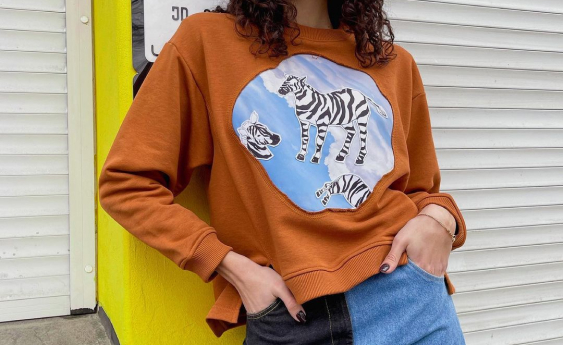
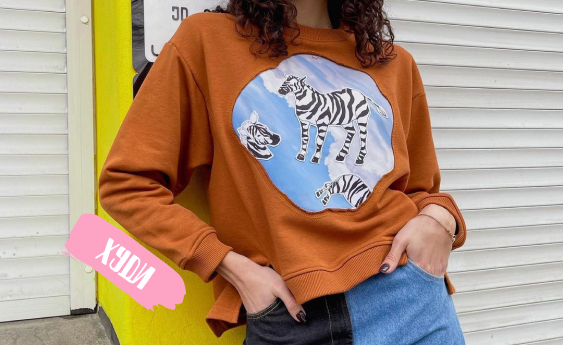
add hero

Changed region(s): [[0.0906, 0.6087, 0.3321, 0.8986]]

diff --git a/src/scss/components/_hero.scss b/src/scss/components/_hero.scss
@@ -1,135 +1,36 @@
-@use "../variables"as *;
-@use "../media"as *;
+@use "../variables" as *;
+@use "../media" as *;
 
 .hero {
-  padding-top        : 200px;
-  color              : $light;
-  background-color   : black;
-  padding            : 218px 0 245px;
-  background-color   : $purple;
-  background-image   : url("/img/bg-dog.png"), url("/img/pattern.svg");
-  background-size    : contain, auto;
-  background-position: right bottom, center;
-  background-repeat  : no-repeat, repeat;
-
-  @include bigscreen {
-    background-image   : url("/img/bg-dog-bigscreen.png"), url("/img/pattern.svg");
-    background-position: left 48vw bottom 0, center;
-    background-size    : 1850px, auto;
+  &__cols {
+    display: grid;
+    grid-template-columns: 1fr 1fr;
+    gap: 15px;
+  }
+  &__col-top-one {
+    margin-bottom: 15px;
+  }
+  &__col-top {
+    display: grid;
+    grid-template-columns: 1fr 1fr;
+    gap: 15px;
+  }
+  &__col-bottom {
+    display: grid;
+    grid-template-columns: 1fr 1fr;
+    gap: 15px;
+  }
+  &__col-bottom-one {
+    padding-top: 15px;
   }
 
-  @include laptop {
-    padding         : 148px 0 172px;
-    background-image: url("/img/bg-dog-laptop.png"), url("/img/pattern.svg");
-  }
-
-  @include tablet {
-    padding         : 148px 0 461px;
-    background-size : 655px 564px, cover;
-    background-image: url("/img/bg-dog-tablet.png"), url("/img/pattern.svg");
-  }
-
-  @include mobile {
-    padding         : 100px 0 284px;
-    background-size : 294px 261px, cover;
-    background-image: url("/img/bg-dog-mobile.png"), url("/img/pattern.svg");
-  }
-
-  &_store {
-    background-color: $green;
-    background-image: url("/img/bg-cat.png"), url("/img/pattern.svg");
-    background-size : 839px, auto;
-
-    @include laptop {
-      background-size: 639px, auto;
-    }
-
-    @include tablet {
-      background-size: 100%;
-    }
-  }
-
-  &__title {
-    width        : 810px;
-    max-width    : 100%;
-    margin-bottom: 50px;
-
-    @media (max-width: 1300px) {
-      width: 660px;
-    }
-
-    @include laptop {
-      width        : 588px;
-      margin-bottom: 32px;
+    @include bigscreen  {
+      
     }
 
     @include mobile {
-      margin-bottom: 16px;
+      &__col-top  {
+        grid-template-columns: 100%;
+      }
     }
-  }
-
-  &__text {
-    max-width    : 440px;
-    margin-bottom: 60px;
-
-    &:last-child {
-      margin-bottom: 0;
-    }
-
-    @include bigscreen {
-      max-width: 540px;
-    }
-
-    @include laptop {
-      max-width    : 360px;
-      margin-bottom: 40px;
-    }
-
-    @include mobile {
-      margin-bottom: 20px;
-    }
-  }
-
-  &__store-link {
-    width           : max-content;
-    display         : flex;
-    align-items     : center;
-    gap             : 4px;
-    border-radius   : 40px;
-    padding         : 16px 24px;
-    font-weight     : 700;
-    text-align      : center;
-    color           : $light;
-    background-color: $green;
-    outline         : 1px solid transparent;
-    transition      : all .3s ease-in-out;
-
-    &:hover {
-      background-color: #00772f;
-    }
-
-    &:focus-visible {
-      outline-color: $carrot;
-    }
-
-    &:active {
-      transform: scale(0.9);
-    }
-
-    &::after {
-      content   : '';
-      display   : block;
-      width     : 16px;
-      height    : 16px;
-      background: url('/img/arrow-to-store.svg') center / contain no-repeat;
-    }
-
-    @include laptop {
-      padding: 16px 36px;
-    }
-
-    @include mobile {
-      padding: 11px 24px;
-    }
-  }
 }

diff --git a/src/modules/Hero.jsx b/src/modules/Hero.jsx
@@ -1,0 +1,36 @@
+export const Hero = () => {
+  return (
+    <section className="hero">
+      <div className="container">
+        <div className="hero__cols">
+          <div className="hero__col">
+            <div className="hero__col-top-one">
+              <img src="public/images/1.jpg" alt="Футболки" />
+            </div>
+            <div className="hero__col-bottom">
+              <div className="hero__col-left">
+                <img src="public/images/2.jpg" alt="Низ" />
+              </div>
+              <div className="hero__col-right">
+                <img src="public/images/3.jpg" alt="верх" />
+              </div>
+            </div>
+          </div>
+          <div className="hero__col">
+            <div className="hero__col-top">
+              <div className="hero__col-left">
+                <img src="public/images/4.jpg" alt="Платья" />
+              </div>
+              <div className="hero__col-right">
+                <img src="public/images/5.jpg" alt="костюмы" />
+              </div>
+            </div>
+            <div className="hero__col-bottom-one">
+              <img src="public/images/6.jpg" alt="Худи" />
+            </div>
+          </div>
+        </div>
+      </div>
+    </section>
+  );
+};

diff --git a/src/pages/MainPage.jsx b/src/pages/MainPage.jsx
@@ -1,7 +1,9 @@
+import { Hero } from "../modules/Hero";
+
 export function MainPage() {
   return (
     <div className="container">
-      <h1>Hello world!!</h1>
+      <Hero />
     </div>
   );
 }

diff --git a/src/scss/index.scss b/src/scss/index.scss
@@ -1,5 +1,5 @@
 @use "default";
 @use "components/header";
-// @use "components/hero";
+@use "components/hero";
 @use "components/footer";
 // @use "components/cart";

diff --git a/src/scss/_default.scss b/src/scss/_default.scss
@@ -83,6 +83,10 @@ p {
   padding: 0;
 }
 
+section {
+  margin-bottom: 60px;
+}
+
 .wrapper {
   max-width: 100vw;
   min-height: 100vh;
